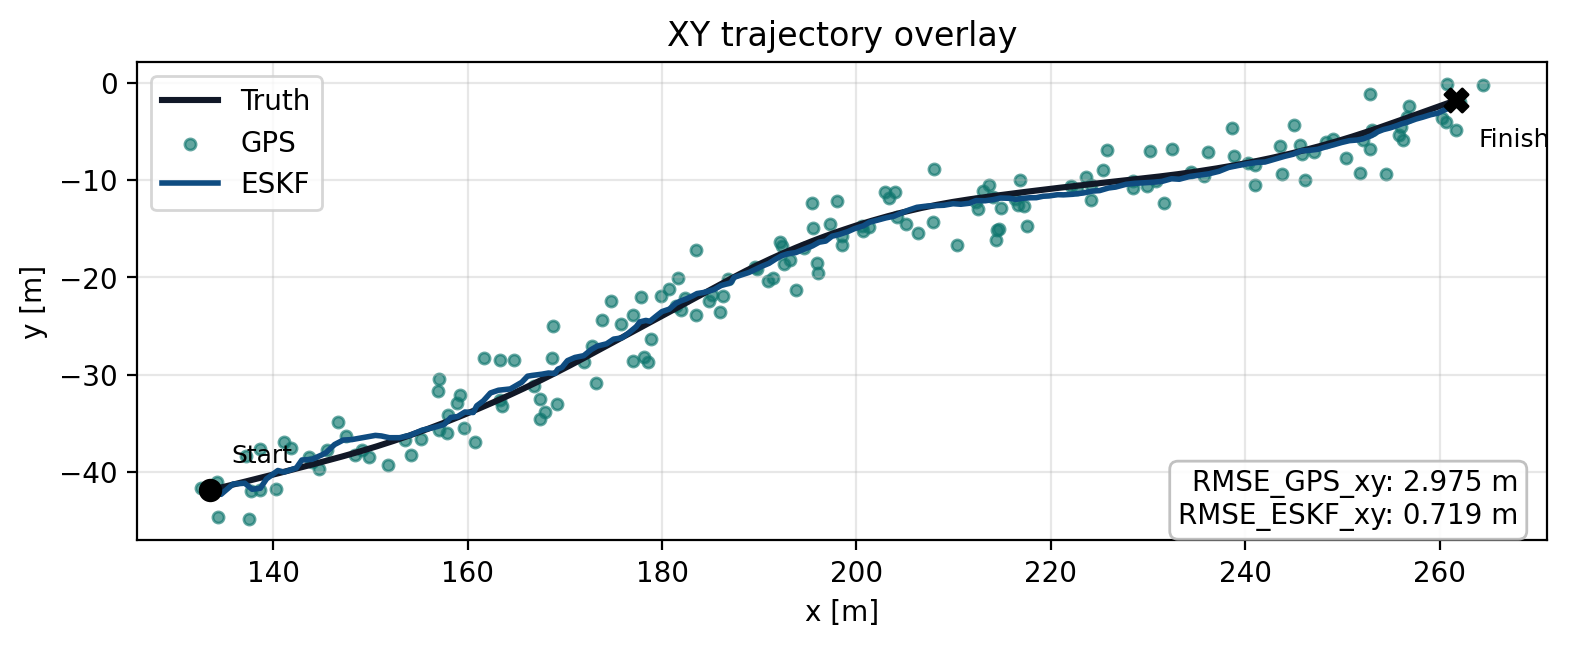
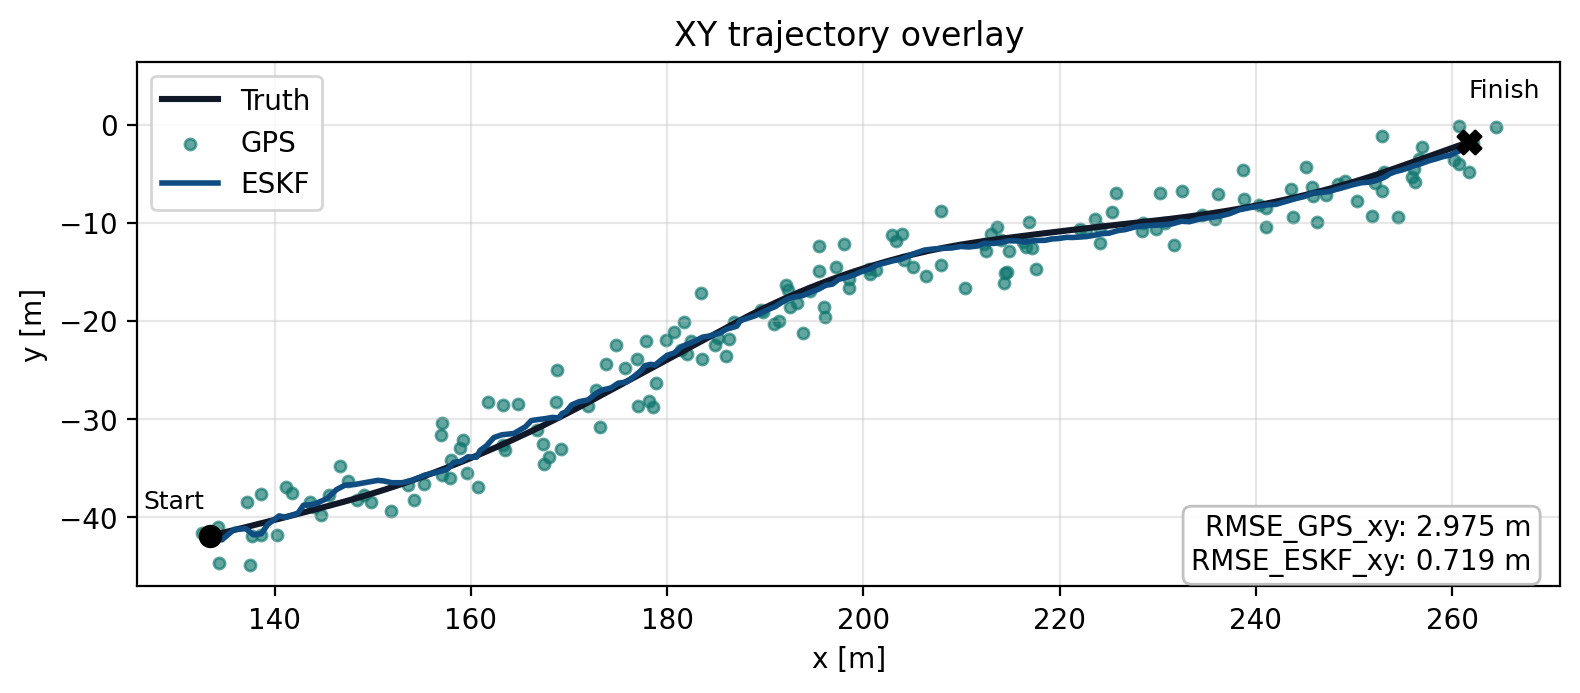
update

Changed region(s): [[0.0312, 0.0309, 0.9994, 0.9892], [0.0, 0.4019, 0.0937, 0.5255], [0.0312, 0.5564, 0.0937, 0.6491]]

diff --git a/scripts/plot_xy.py b/scripts/plot_xy.py
@@ -90,23 +90,23 @@ def make_plot(series: dict[str, list[float]], output_path: Path) -> tuple[float,
 
     ax.scatter(true_x[0], true_y[0], marker="o", s=55, color="black", zorder=5)
     ax.scatter(true_x[-1], true_y[-1], marker="X", s=70, color="black", zorder=5)
-    ax.annotate(
+    start_annotation = ax.annotate(
         "Start",
         xy=(true_x[0], true_y[0]),
-        xytext=(8, 8),
+        xytext=(0, 8),
         textcoords="offset points",
         fontsize=9,
         ha="left",
         va="bottom",
     )
-    ax.annotate(
+    finish_annotation = ax.annotate(
         "Finish",
         xy=(true_x[-1], true_y[-1]),
-        xytext=(8, -10),
+        xytext=(0, 0),
         textcoords="offset points",
         fontsize=9,
         ha="left",
-        va="top",
+        va="bottom",
     )
 
     ax.text(
@@ -123,10 +123,36 @@ def make_plot(series: dict[str, list[float]], output_path: Path) -> tuple[float,
     ax.set_xlabel("x [m]")
     ax.set_ylabel("y [m]")
     ax.set_title("XY trajectory overlay")
+    ymin, ymax = ax.get_ylim()
+    ax.set_ylim(ymin, 3.0 * ymax)
     ax.set_aspect("equal", adjustable="box")
     ax.grid(True, alpha=0.3)
     ax.legend(loc="best")
     fig.tight_layout()
+
+    fig.canvas.draw()
+    renderer = fig.canvas.get_renderer()
+    axes_bbox = ax.get_window_extent(renderer=renderer)
+    start_bbox = start_annotation.get_window_extent(renderer=renderer)
+    target_start_x0_px = axes_bbox.x0 + 3.0
+    dx_px = target_start_x0_px - start_bbox.x0
+    start_x_pt, start_y_pt = start_annotation.get_position()
+    start_annotation.set_position(
+        (start_x_pt + dx_px * 72.0 / fig.dpi, start_y_pt))
+
+    finish_bbox = finish_annotation.get_window_extent(renderer=renderer)
+    finish_x_px, finish_y_px = ax.transData.transform((true_x[-1], true_y[-1]))
+    target_finish_x0_px = finish_x_px
+    target_finish_y0_px = finish_y_px + 20.0
+    finish_dx_px = target_finish_x0_px - finish_bbox.x0
+    finish_dy_px = target_finish_y0_px - finish_bbox.y0
+    finish_x_pt, finish_y_pt = finish_annotation.get_position()
+    finish_annotation.set_position(
+        (
+            finish_x_pt + finish_dx_px * 72.0 / fig.dpi,
+            finish_y_pt + finish_dy_px * 72.0 / fig.dpi,
+        ))
+    fig.canvas.draw()
 
     output_path.parent.mkdir(parents=True, exist_ok=True)
     fig.savefig(output_path, dpi=200, bbox_inches="tight")

diff --git a/README.md b/README.md
@@ -1,8 +1,8 @@
-# IMU/GPS ESKF
+# IMU/GPS Error-State Kalman Filter
 
 ![XY trajectory overlay](output/xy_trajectory.png)
 
-This repository is a C++/Eigen IMU+GPS Error-State Kalman Filter baseline for ego-state estimation, written in collaboration with ChatGPT.
+A C++/Eigen IMU/GPS ESKF baseline for ego-state estimation, written in collaboration with ChatGPT.
 
 ## What is in this repo
 
